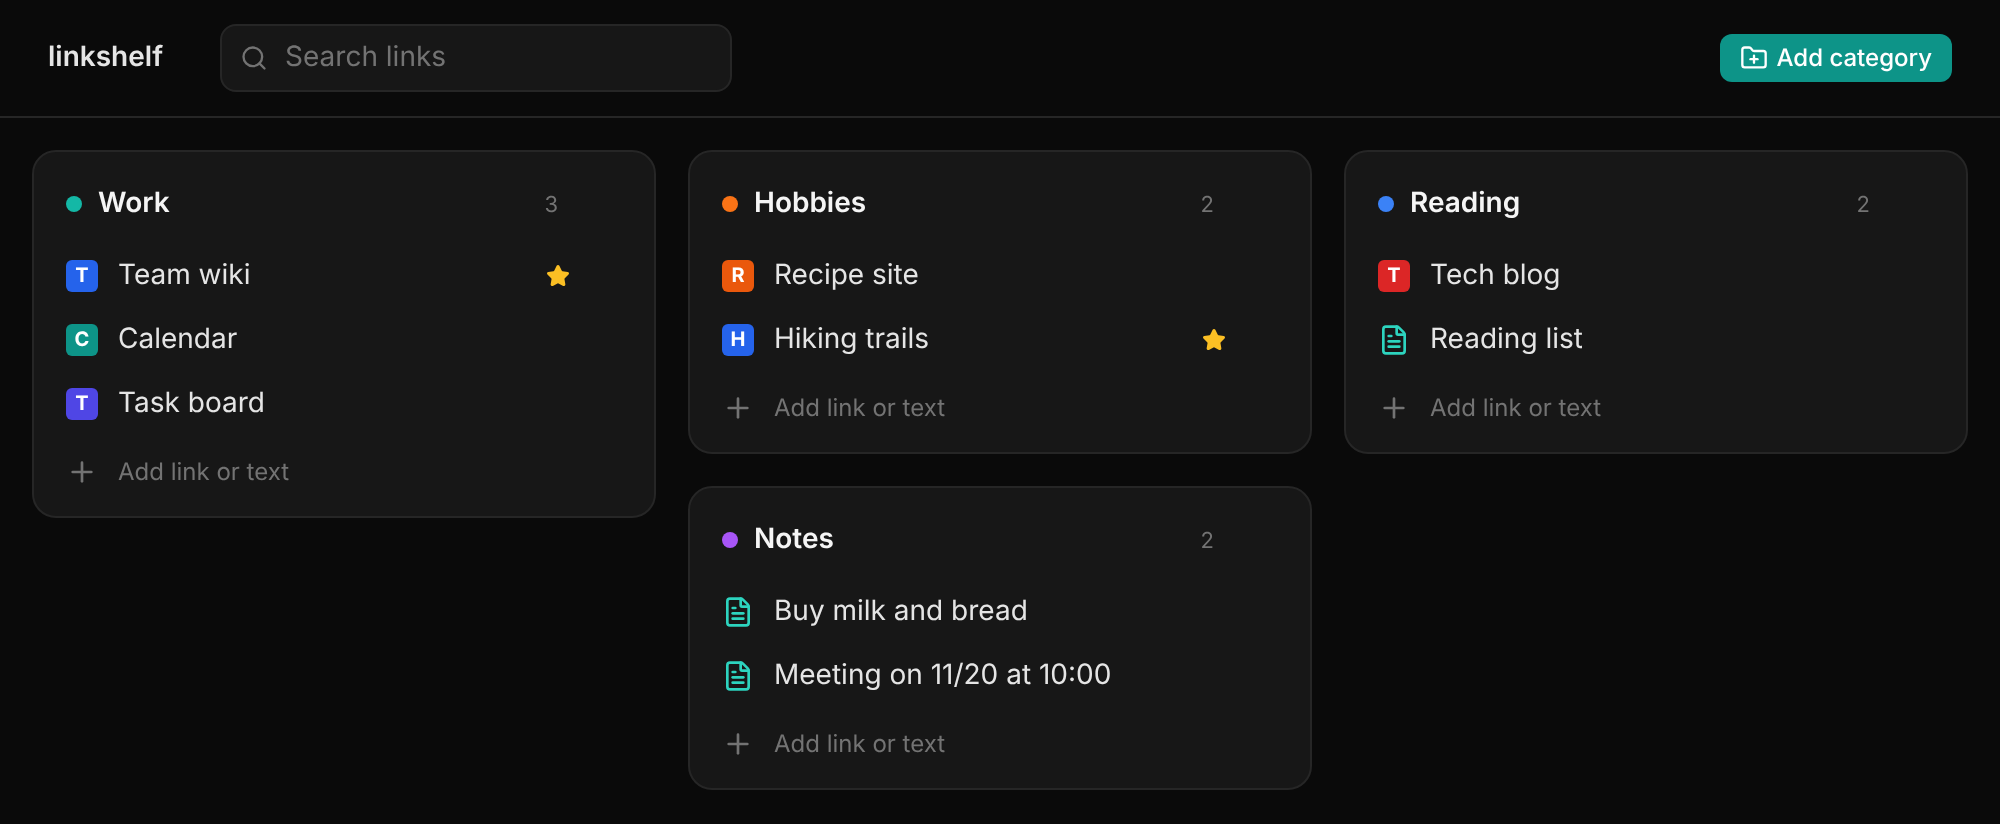
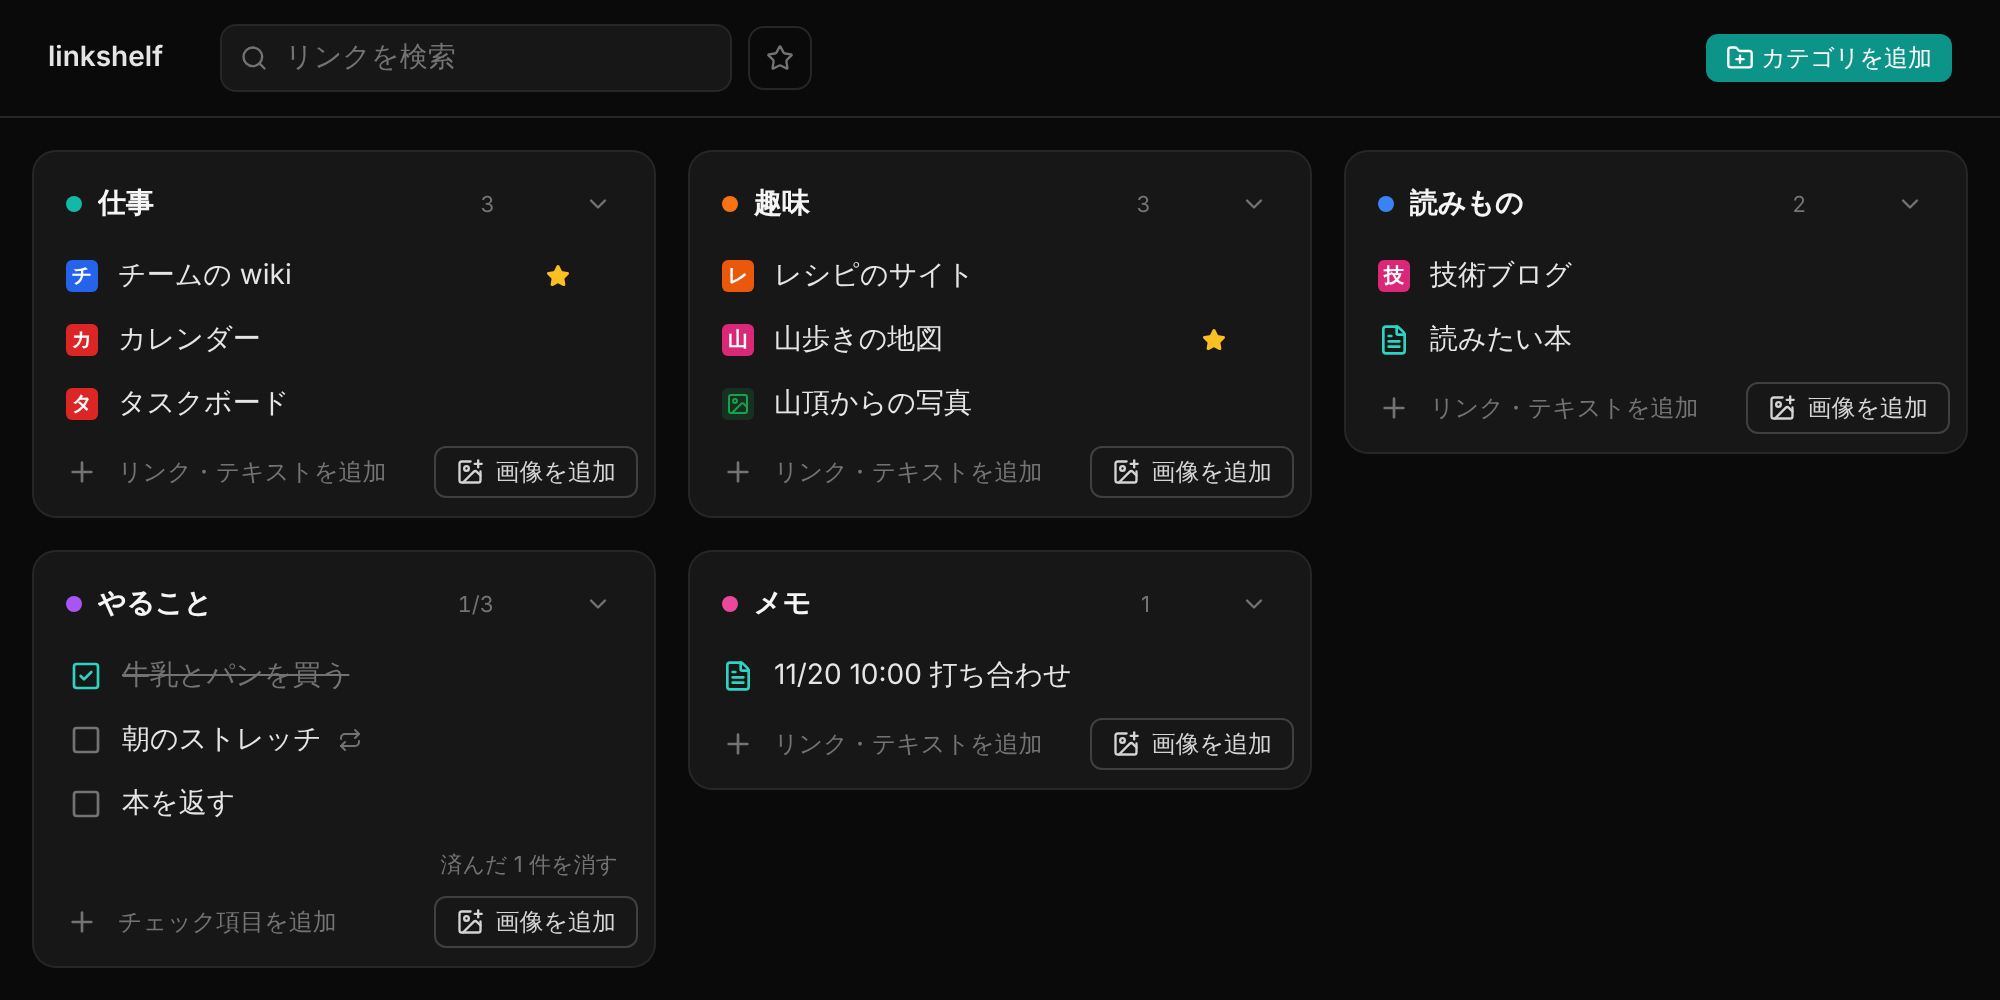
README・デモを 0.7.0 に合わせる
- デモ: 画像をこのブラウザ（IndexedDB）に置き、どこでも貼り付け・縮めて置く・メモを添えて見る（localImages.ts）
- デモ: CSP の img-src に blob: を足す（画像を表示するため）
- README: できること・見本のページの説明を更新、英語にも Example app の節を足す
- スクリーンショットを撮り直す（お気に入りのボタン・チェック項目・画像を追加・画像リンク）

Claude-Session: https://claude.ai/code/session_01U9i96aMXc8opqXhXZ2P2ZQ

diff --git a/examples/web/src/localImages.ts b/examples/web/src/localImages.ts
@@ -1,0 +1,51 @@
+/**
+ * 見本のページの画像の置き場（このブラウザの IndexedDB）。
+ * linkshelf の uploadImage / loadImage に渡す。画像はほかの端末やほかの人には見えない。
+ * リンクの URL は「このページの /local-images/<id>.<拡張子>」にしておき、読むときに IndexedDB から取り出す。
+ */
+
+const DB_NAME = 'linkshelf-example-images'
+const STORE = 'images'
+const PREFIX = '/local-images/'
+
+function open(): Promise<IDBDatabase> {
+  return new Promise((resolve, reject) => {
+    const req = indexedDB.open(DB_NAME, 1)
+    req.onupgradeneeded = () => req.result.createObjectStore(STORE)
+    req.onsuccess = () => resolve(req.result)
+    req.onerror = () => reject(req.error)
+  })
+}
+
+async function run<T>(mode: IDBTransactionMode, fn: (s: IDBObjectStore) => IDBRequest<T>): Promise<T> {
+  const db = await open()
+  try {
+    return await new Promise<T>((resolve, reject) => {
+      const req = fn(db.transaction(STORE, mode).objectStore(STORE))
+      req.onsuccess = () => resolve(req.result)
+      req.onerror = () => reject(req.error)
+    })
+  } finally {
+    db.close()
+  }
+}
+
+const EXT: Record<string, string> = { 'image/jpeg': 'jpg', 'image/png': 'png', 'image/webp': 'webp' }
+
+/** 画像をこのブラウザに置いて、その URL を返す */
+export async function saveLocalImage(file: File): Promise<{ url: string }> {
+  if (file.size > 10 * 1024 * 1024) throw new Error('10MB まで / up to 10MB')
+  const id = crypto.randomUUID()
+  await run('readwrite', (s) => s.put(file, id))
+  return { url: `${PREFIX}${id}.${EXT[file.type] ?? 'img'}` }
+}
+
+/** このブラウザに置いた画像なら取り出す。それ以外の画像は URL のまま読む */
+export async function loadLocalImage(url: string): Promise<Blob | string> {
+  const path = new URL(url, location.href).pathname
+  if (!path.startsWith(PREFIX)) return url
+  const id = path.slice(PREFIX.length).replace(/\.[^.]*$/, '')
+  const blob = await run<Blob | undefined>('readonly', (s) => s.get(id) as IDBRequest<Blob | undefined>)
+  if (!blob) throw new Error('この画像は、別のブラウザで置いたものです / This image was added in another browser')
+  return blob
+}

diff --git a/examples/web/src/main.tsx b/examples/web/src/main.tsx
@@ -5,6 +5,7 @@ import { LinkShelf, type LinkShelfLocale, type LinkShelfTheme } from 'linkshelf'
 import 'linkshelf/style.css'
 import './page.css'
 import { fetchTitle } from './fetchTitle'
+import { loadLocalImage, saveLocalImage } from './localImages'
 
 /** ブラウザの言葉が日本語なら日本語、それ以外は英語で表示する */
 const LOCALE: LinkShelfLocale = navigator.language.toLowerCase().startsWith('ja') ? 'ja' : 'en'
@@ -62,6 +63,12 @@ function App() {
       locale={LOCALE}
       collapsible
       checklist
+      // 画像: このブラウザの中に置き、部品の中でメモを添えて見る
+      uploadImage={saveLocalImage}
+      imageMaxSide={2000}
+      pasteImagesAnywhere
+      viewImages
+      loadImage={loadLocalImage}
       title="linkshelf"
       actions={<ThemeButton theme={theme} onChange={setTheme} />}
     />
